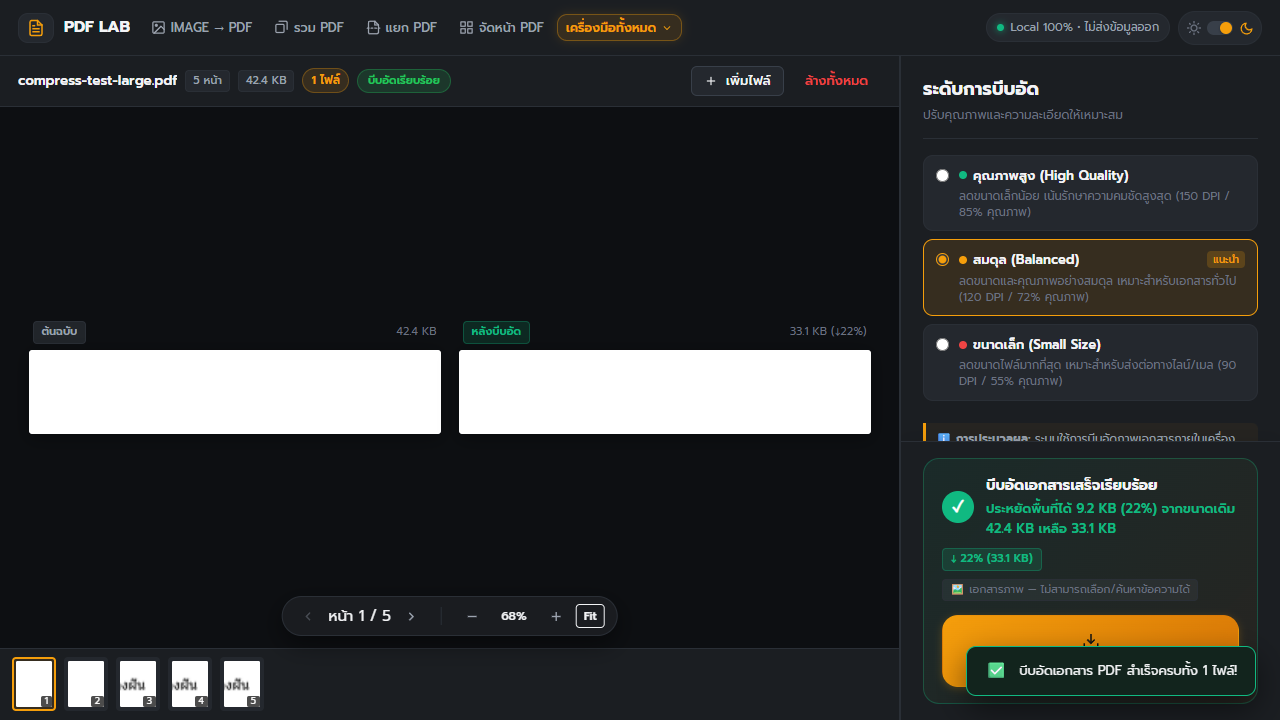
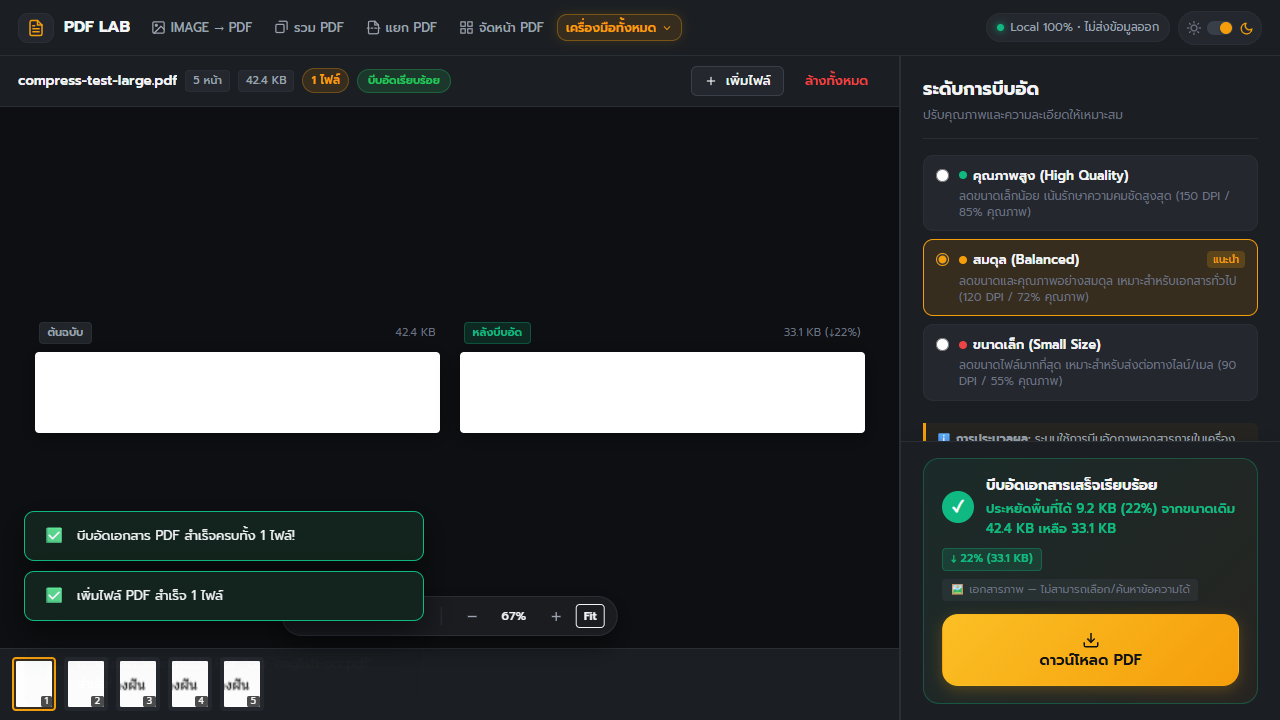
fix: restore PDF LAB workbench layout

diff --git a/styles.css b/styles.css
@@ -991,8 +991,6 @@ button, input, select, textarea {
   color: var(--accent-amber);
 }
 
-}
-
 /* ==========================================================================
    STATE 2: Workspace Screen (2-Column Editor)
    ========================================================================== */
@@ -1879,9 +1877,9 @@ select option {
 .toast-container {
   position: fixed;
   bottom: 24px;
-  right: 24px;
+  left: 24px;
   display: flex;
-  flex-direction: column;
+  flex-direction: column-reverse;
   gap: 10px;
   z-index: 1100;
   max-width: 400px;
@@ -3129,8 +3127,12 @@ select option {
   display: grid;
   grid-template-columns: minmax(0, 1fr) 380px;
   gap: 0;
+  height: calc(100vh - 56px);
+  max-height: calc(100vh - 56px);
   min-height: calc(100vh - 56px);
   background-color: var(--bg-workspace);
+  overflow: hidden;
+  width: 100%;
 }
 
 /* Left Pane: Document Workbench */
@@ -3138,7 +3140,8 @@ select option {
   display: flex;
   flex-direction: column;
   min-width: 0;
-  height: calc(100vh - 56px);
+  height: 100%;
+  max-height: 100%;
   position: relative;
   background-color: var(--bg-workspace);
   border-right: 1px solid var(--border-subtle);
@@ -3284,13 +3287,14 @@ select option {
 /* Comparison Container (True Side-by-Side) */
 .workbench-comparison-container {
   display: flex;
-  align-items: center;
+  align-items: flex-start;
   justify-content: center;
-  gap: 18px;
+  gap: 20px;
   max-width: 100%;
   max-height: 100%;
   width: auto;
   height: auto;
+  margin: auto;
   transition: transform var(--transition-fast);
 }
 
@@ -3308,8 +3312,7 @@ select option {
   align-items: center;
   justify-content: space-between;
   width: 100%;
-  max-width: 500px;
-  margin-bottom: 6px;
+  margin-bottom: 8px;
   padding: 0 4px;
 }
 
@@ -3343,15 +3346,22 @@ select option {
   align-items: center;
   justify-content: center;
   background-color: #ffffff;
-  border-radius: 3px;
-  box-shadow: 0 4px 18px rgba(0, 0, 0, 0.35);
-  border: 1px solid rgba(255, 255, 255, 0.1);
+  border-radius: 4px;
+  box-shadow: 0 4px 20px rgba(0, 0, 0, 0.4);
+  border: 1px solid rgba(255, 255, 255, 0.12);
   overflow: hidden;
+  box-sizing: border-box;
 }
 
 [data-theme="light"] .workbench-canvas-frame {
-  box-shadow: 0 4px 16px rgba(0, 0, 0, 0.12);
+  box-shadow: 0 4px 18px rgba(0, 0, 0, 0.12);
   border-color: rgba(0, 0, 0, 0.1);
+}
+
+.workbench-canvas-frame:has(#compressPdfEmptyPlaceholder:not(.hidden)) {
+  background-color: transparent !important;
+  box-shadow: none !important;
+  border: none !important;
 }
 
 .workbench-canvas {
@@ -3368,14 +3378,13 @@ select option {
   align-items: center;
   justify-content: center;
   text-align: center;
-  padding: 28px 20px;
+  padding: 24px 20px;
   border: 2px dashed var(--border-strong);
   border-radius: var(--radius-md);
   background-color: rgba(255, 255, 255, 0.02);
   color: var(--text-muted);
-  min-height: 280px;
   width: 100%;
-  max-width: 400px;
+  height: 100%;
   box-sizing: border-box;
 }
 
@@ -3680,8 +3689,10 @@ select option {
   }
 
   .workbench-toolbar {
-    bottom: 80px;
-    padding: 4px 10px;
+    position: static;
+    transform: none;
+    margin: 8px auto;
+    padding: 5px 12px;
     gap: 10px;
   }
 

diff --git a/pdf-tools.js b/pdf-tools.js
@@ -2666,18 +2666,21 @@
       // Calculate Scale dynamically based on available Stage container dimensions
       let renderScale = compressPdfState.zoomScale;
       if (compressPdfState.fitMode && stage) {
-        const isDualPane = activeItem.isCompressed && compressPdfState.compressedDoc && window.innerWidth > 768;
-        const availableW = Math.max(200, (stage.clientWidth - (isDualPane ? 80 : 50)) / (isDualPane ? 2 : 1));
-        const availableH = Math.max(200, stage.clientHeight - 130);
+        const isDualPane = window.innerWidth > 768;
+        const availableW = Math.max(160, (stage.clientWidth - (isDualPane ? 90 : 36)) / (isDualPane ? 2 : 1));
+        const availableH = Math.max(160, stage.clientHeight - 120);
         const scaleW = availableW / vp1.width;
         const scaleH = availableH / vp1.height;
         renderScale = Math.min(scaleW, scaleH, 1.8);
-        renderScale = Math.max(0.3, renderScale);
+        renderScale = Math.max(0.2, renderScale);
         compressPdfState.zoomScale = renderScale;
       }
 
       if (btnZoomFit) btnZoomFit.classList.toggle('active', compressPdfState.fitMode);
       if (zoomLabel) zoomLabel.textContent = `${Math.round(renderScale * 100)}%`;
+
+      const frameOrig = document.getElementById('compressPdfCanvasFrameOriginal');
+      const frameComp = document.getElementById('compressPdfCanvasFrameCompressed');
 
       // Render Original Canvas
       if (canvasOrig) {
@@ -2686,6 +2689,15 @@
         canvasOrig.height = Math.round(vpOrig.height);
         const ctxOrig = canvasOrig.getContext('2d');
         await pageOrig.render({ canvasContext: ctxOrig, viewport: vpOrig }).promise;
+
+        if (frameOrig) {
+          frameOrig.style.width = `${Math.round(vpOrig.width)}px`;
+          frameOrig.style.height = `${Math.round(vpOrig.height)}px`;
+        }
+        if (frameComp && (!activeItem.isCompressed || !compressPdfState.compressedDoc)) {
+          frameComp.style.width = `${Math.round(vpOrig.width)}px`;
+          frameComp.style.height = `${Math.round(vpOrig.height)}px`;
+        }
       }
 
       // Render Compressed Canvas (if available from actual output Blob)
@@ -2705,6 +2717,11 @@
           await pageComp.render({ canvasContext: ctxComp, viewport: vpComp }).promise;
           canvasComp.classList.remove('hidden');
           if (placeholder) placeholder.classList.add('hidden');
+
+          if (frameComp) {
+            frameComp.style.width = `${Math.round(vpComp.width)}px`;
+            frameComp.style.height = `${Math.round(vpComp.height)}px`;
+          }
         }
 
         if (compMeta) {

diff --git a/index.html b/index.html
@@ -1289,7 +1289,7 @@
         </div>
 
         <!-- Workspace Screen: 2-Pane Document Workbench -->
-        <div class="workspace-screen workbench-screen hidden" id="compressPdfWorkspaceScreen">
+        <div class="workbench-screen hidden" id="compressPdfWorkspaceScreen">
           <!-- LEFT: Document Workspace -->
           <div class="workbench-left" id="compressPdfWorkspaceLeft">
             <!-- Workbench Compact Top Bar -->
@@ -1346,7 +1346,7 @@
                     <canvas id="compressPdfCanvasCompressed" class="workbench-canvas"></canvas>
                     <div class="comparison-empty-placeholder" id="compressPdfEmptyPlaceholder">
                       <div class="placeholder-icon">🗜</div>
-                      <p class="placeholder-title">ตัวอย่างหลังบีบอัด</p>
+                      <p class="placeholder-title">ผลลัพธ์จะแสดงหลังบีบอัด</p>
                       <p class="placeholder-desc">จะแสดงเปรียบเทียบหน้าจริงคู่กับต้นฉบับหลังประมวลผลเสร็จสิ้น</p>
                     </div>
                   </div>
